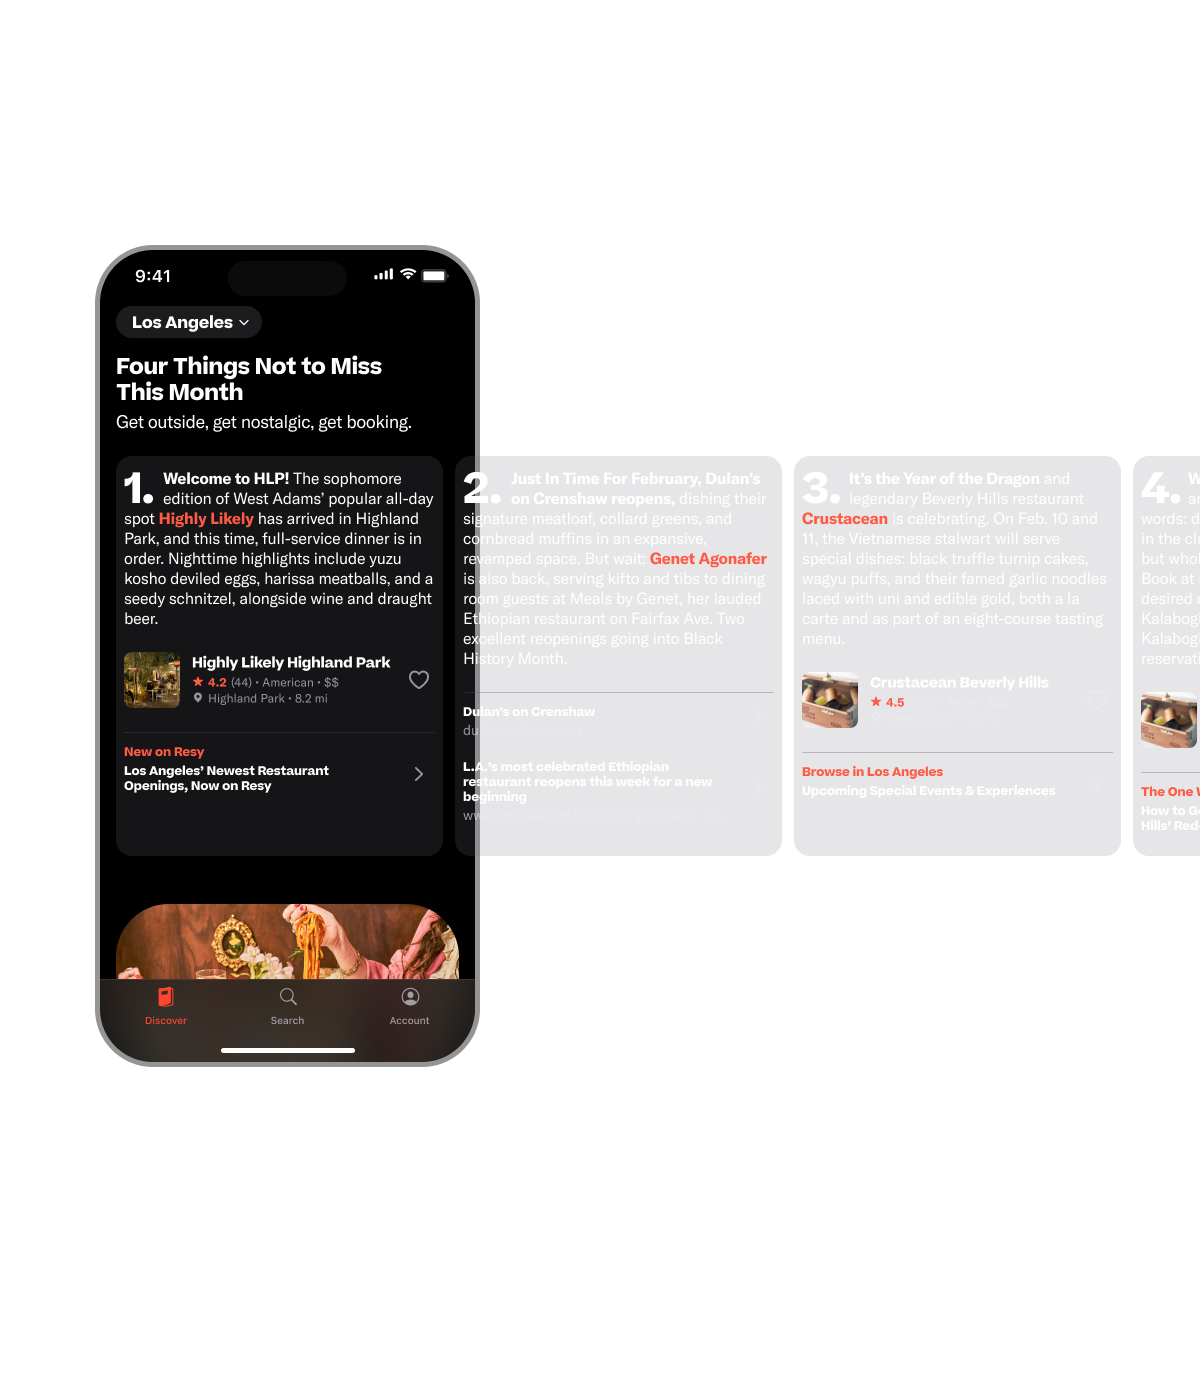
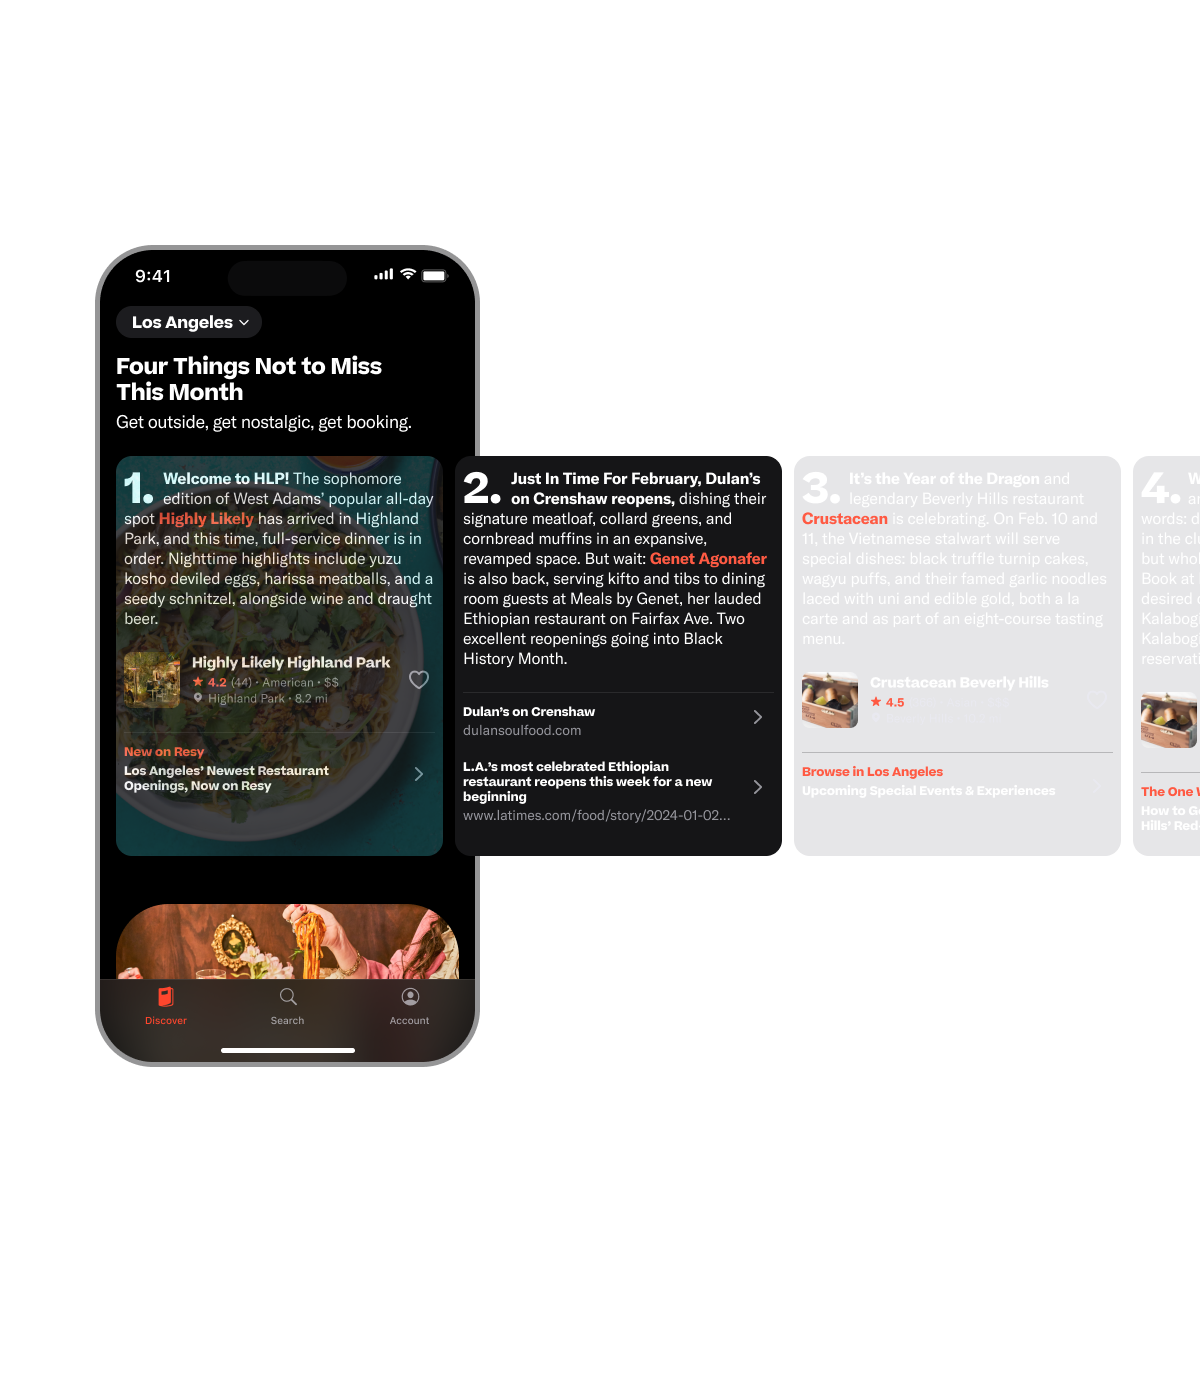
Update social nav implementation and add session handoff notes

Changed region(s): [[0.0925, 0.3071, 0.6783, 0.6143]]

diff --git a/assets/css/styles.css b/assets/css/styles.css
@@ -250,25 +250,50 @@ body.is-pulling-refresh .rail::after {
 }
 
 .social-links {
-  position: absolute;
-  left: calc((100vw - var(--grid-width)) / -2);
-  top: 360px;
-  width: 90px;
+  position: relative;
   display: flex;
-  flex-direction: column;
   align-items: center;
-  gap: 28px;
-  z-index: 18;
-  transition: opacity 0.2s ease;
+  gap: 0;
+  width: fit-content;
+  margin-top: 100px;
+  z-index: 2;
 }
 
 .social-links a {
   display: inline-flex;
+  align-items: center;
+  justify-content: center;
+  position: relative;
+  width: 26px;
+  height: 26px;
+  margin-right: 40px;
+  opacity: 1;
+  transition: opacity 0.2s ease;
 }
 
 .social-links img {
   width: 26px;
   height: 26px;
+  display: block;
+}
+
+.social-links a:last-child {
+  margin-right: 0;
+}
+
+.social-links a:not(:last-child)::after {
+  content: "";
+  position: absolute;
+  top: 50%;
+  right: -20px;
+  width: 1px;
+  height: 40px;
+  background: var(--line);
+  transform: translateY(-50%);
+}
+
+.social-links a:hover {
+  opacity: 0.8;
 }
 
 .content {
@@ -326,7 +351,8 @@ body.grid-hidden .grid-overlay > span {
 
 .topper {
   position: relative;
-  margin-top: 110px;
+  margin-top: 96px;
+  padding-bottom: 22px;
 }
 
 .topper h1,
@@ -339,14 +365,14 @@ body.grid-hidden .grid-overlay > span {
 }
 
 .topper h1 {
-  margin-top: 12px;
+  margin-top: 8px;
   font-size: clamp(52px, 7.7vw, 120px);
   font-weight: 700;
 }
 
 .topper h2 {
   font-size: clamp(52px, 7.7vw, 120px);
-  margin-bottom: 34px;
+  margin-bottom: 28px;
 }
 
 .topper-columns {
@@ -404,7 +430,7 @@ body.grid-hidden .grid-overlay > span {
 }
 
 .job-header {
-  margin-top: 188px;
+  margin-top: 200px;
 }
 
 .job-header h3 {
@@ -718,7 +744,16 @@ body.grid-hidden .grid-overlay > span {
   }
 
   .social-links {
-    left: calc((100vw - var(--grid-width)) / -2 - 50px);
+    gap: 0;
+    margin-top: 110px;
+  }
+
+  .topper {
+    padding-bottom: 24px;
+  }
+
+  .job-header {
+    margin-top: 220px;
   }
 
   .topper h1,
@@ -768,9 +803,11 @@ body.grid-hidden .grid-overlay > span {
   }
 
   .social-links {
-    left: -160px;
-    top: auto;
-    bottom: 40px;
+    margin-top: 92px;
+  }
+
+  .job-header {
+    margin-top: 190px;
   }
 }
 
@@ -788,7 +825,6 @@ body.grid-hidden .grid-overlay > span {
   }
 
   .case-nav,
-  .social-links,
   .cols-toggle {
     display: none;
   }
@@ -808,6 +844,28 @@ body.grid-hidden .grid-overlay > span {
   .topper-columns {
     grid-template-columns: 1fr;
     row-gap: 18px;
+    padding-top: 16px;
+  }
+
+  .social-links {
+    gap: 0;
+    margin-top: 24px;
+  }
+
+  .social-links a {
+    width: 22px;
+    height: 22px;
+    margin-right: 28px;
+  }
+
+  .social-links img {
+    width: 22px;
+    height: 22px;
+  }
+
+  .social-links a:not(:last-child)::after {
+    right: -14px;
+    height: 30px;
   }
 
   .topper-columns > p:nth-child(1),
@@ -817,7 +875,7 @@ body.grid-hidden .grid-overlay > span {
   }
 
   .job-header {
-    margin-top: 100px;
+    margin-top: 112px;
   }
 
   .job-meta,
@@ -887,7 +945,29 @@ body.grid-hidden .grid-overlay > span {
   }
 
   .topper {
-    margin-top: 36px;
+    margin-top: 28px;
+    padding-bottom: 12px;
+  }
+
+  .social-links {
+    gap: 0;
+    margin-top: 20px;
+  }
+
+  .social-links a {
+    width: 20px;
+    height: 20px;
+    margin-right: 24px;
+  }
+
+  .social-links img {
+    width: 20px;
+    height: 20px;
+  }
+
+  .social-links a:not(:last-child)::after {
+    right: -12px;
+    height: 28px;
   }
 
   .topper h1,
@@ -912,7 +992,7 @@ body.grid-hidden .grid-overlay > span {
   }
 
   .job-header {
-    margin-top: 72px;
+    margin-top: 84px;
   }
 
   .job-header h3 {

diff --git a/index.html b/index.html
@@ -32,7 +32,7 @@
     />
     <meta name="twitter:image" content="https://nieder.me/assets/images/case-studies/resy-discover-tab/resy-discover-tab-01.png" />
     <meta name="twitter:image:alt" content="A portfolio case study preview from John Niedermeyer." />
-    <link rel="stylesheet" href="assets/css/styles.css?v=20260218-015" />
+    <link rel="stylesheet" href="assets/css/styles.css?v=20260219-008" />
   </head>
   <body id="top">
     <div class="page">
@@ -70,13 +70,6 @@
           <span></span><span></span><span></span><span></span><span></span><span></span>
         </div>
         <section class="topper" id="topper">
-          <nav class="social-links" aria-label="Social links">
-            <a href="#" aria-label="Twitter"><img src="assets/icons/twitter.svg" alt="" /></a>
-            <a href="#" aria-label="Instagram"><img src="assets/icons/instagram.svg" alt="" /></a>
-            <a href="#" aria-label="LinkedIn"><img src="assets/icons/linkedin.svg" alt="" /></a>
-            <a href="#" aria-label="GitHub"><img src="assets/icons/github.svg" alt="" /></a>
-            <a href="#" aria-label="Email"><img src="assets/icons/email.svg" alt="" /></a>
-          </nav>
           <div class="rule"></div>
           <h1>John Niedermeyer</h1>
           <h2>Product Design<br />&amp; Direction</h2>
@@ -94,6 +87,24 @@
               Comfortable owning a large surface area, from first questions to measured outcomes. Turns research into clear direction, then into buildable decisions and shipped product. Stays close after launch to learn what changed and make the next iteration better.
             </p>
           </div>
+
+          <nav class="social-links" aria-label="Social links">
+            <a href="https://instagram.com/niederme/" target="_blank" rel="noopener noreferrer" aria-label="Instagram profile">
+              <img src="assets/icons/social-instagram.svg" alt="" />
+            </a>
+            <a href="https://github.com/niederme/" target="_blank" rel="noopener noreferrer" aria-label="GitHub profile">
+              <img src="assets/icons/social-github.svg" alt="" />
+            </a>
+            <a href="https://www.linkedin.com/in/niederme/" target="_blank" rel="noopener noreferrer" aria-label="LinkedIn profile">
+              <img src="assets/icons/social-linkedin.svg" alt="" />
+            </a>
+            <a href="https://x.com/niederme/" target="_blank" rel="noopener noreferrer" aria-label="X profile">
+              <img src="assets/icons/social-x.svg" alt="" />
+            </a>
+            <a data-email-link aria-label="Send email">
+              <img src="assets/icons/social-email.svg" alt="" />
+            </a>
+          </nav>
         </section>
 
         <section class="job-header" id="resy-header">
@@ -411,6 +422,6 @@
       </div>
       <p class="lightbox-caption"></p>
     </div>
-    <script src="assets/js/main.js?v=20260218-012"></script>
+    <script src="assets/js/main.js?v=20260219-004"></script>
   </body>
 </html>

diff --git a/assets/js/main.js b/assets/js/main.js
@@ -2,7 +2,15 @@ const caseNav = document.querySelector(".case-nav");
 const logoMark = document.querySelector(".logo-mark");
 const colsToggle = document.querySelector(".cols-toggle");
 const colsToggleState = colsToggle?.querySelector(".cols-toggle-state");
+const emailLink = document.querySelector("[data-email-link]");
 const COLS_TOGGLE_STORAGE_KEY = "nieder.cols-grid-visible";
+
+if (emailLink) {
+  const emailAddress = String.fromCharCode(
+    106, 111, 104, 110, 64, 110, 105, 101, 100, 101, 114, 46, 109, 101
+  );
+  emailLink.href = `mailto:${emailAddress}`;
+}
 
 if (colsToggle) {
   const applyGridVisibility = (visible, persist = true) => {
@@ -25,13 +33,13 @@ if (colsToggle) {
     }
   };
 
-  let isVisible = true;
+  let isVisible = false;
   try {
     const stored = window.localStorage.getItem(COLS_TOGGLE_STORAGE_KEY);
     if (stored === "0") isVisible = false;
     if (stored === "1") isVisible = true;
   } catch (error) {
-    // Ignore storage access failures and keep default visible state.
+    // Ignore storage access failures and keep default hidden state.
   }
 
   applyGridVisibility(isVisible, false);

diff --git a/SESSION_HANDOFF_2026-02-20.md b/SESSION_HANDOFF_2026-02-20.md
@@ -1,0 +1,37 @@
+# Session Handoff — 2026-02-20
+
+## Branch
+- `codex/figma-site`
+
+## What Changed In This Session
+- Moved social links into the top hero (`#social-nav` treatment) and removed sidebar social icons.
+- Updated social assets and wiring:
+  - `assets/icons/social-instagram.svg`
+  - `assets/icons/social-github.svg`
+  - `assets/icons/social-linkedin.svg`
+  - `assets/icons/social-x.svg`
+  - `assets/icons/social-email.svg`
+- Updated social links in `index.html` to live profiles (`x.com` for X).
+- Added email obfuscation/wiring in `assets/js/main.js` via `[data-email-link]`.
+- Set column grid default toggle state to OFF in `assets/js/main.js`.
+- Updated topper spacing and responsive social-nav sizing/spacing in `assets/css/styles.css`.
+- Updated case study visual asset:
+  - `assets/images/case-studies/resy-discover-tab/resy-discover-tab-02.png`
+- Bumped cache-busting query params in `index.html` for CSS/JS.
+
+## Open Item
+- Sticky caption behavior on case visuals needs a final pass.
+  - Current behavior: caption is anchored to the visual frame, but in some scroll states it can appear “missing” until sticky engagement is reached.
+  - Next step: decide whether caption should be viewport-pinned throughout the visual section, or remain tied to the sticky frame engagement point.
+
+## Local Run
+- Default (LAN + opens localhost):
+  - `make`
+- Localhost-only:
+  - `make dev-local`
+
+## Resume Checklist (next computer)
+1. `git fetch --all`
+2. `git checkout codex/figma-site`
+3. `git pull --ff-only`
+4. `make`
